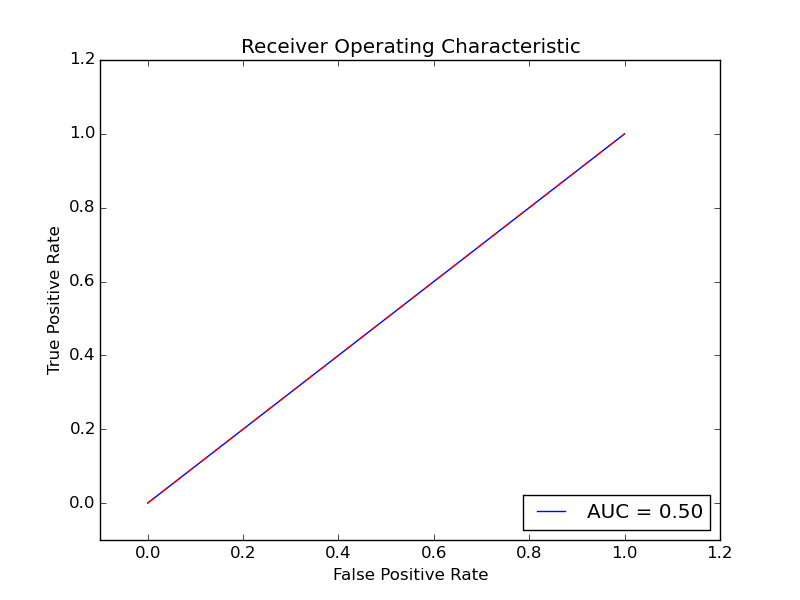
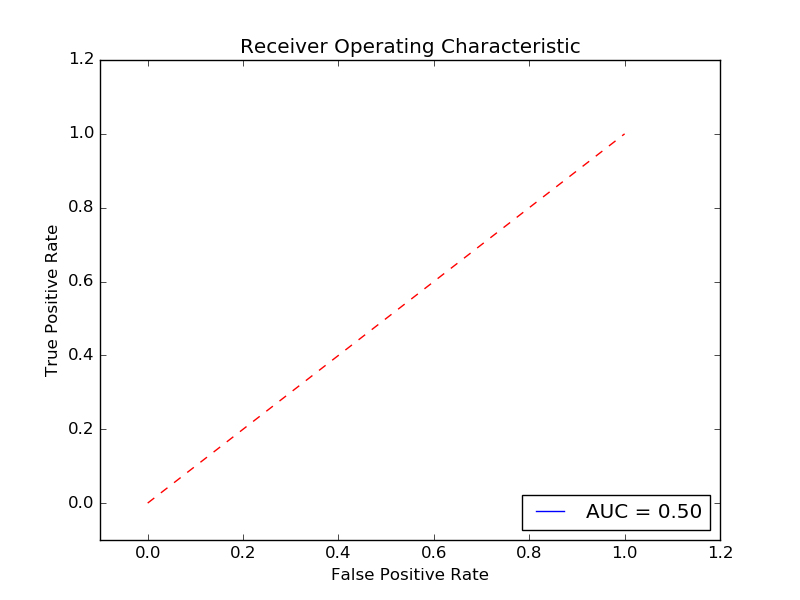
tried to fix graphs

diff --git a/svm/svm.py b/svm/svm.py
@@ -22,35 +22,49 @@ parsedData = data.map(parsePoint)
 
 
 def run_iterations(parsedData, iter, seed):
-    trainingData, testingData = parsedData.randomSplit([70, 30], seed)
-    print("For " + str(iter) + " iterations:")
-    # Build the model
-    model = SVMWithSGD.train(trainingData, iterations=100)
+    fp_rates = []
+    tp_rates = []
+    # thld_arr   = []
+    for i in range(0, 10):
+        trainingData, testingData = parsedData.randomSplit([70, 30], seed)
+        print("For " + str(iter) + " iterations:")
+        # Build the model
+        model = SVMWithSGD.train(trainingData, iterations=100)
 
-    # Evaluating the model on training data
-    labelsAndPreds = trainingData.map(lambda p: (p.label, model.predict(p.features)))
-    trainErr = labelsAndPreds.filter(lambda (v, p): v != p).count() / float(trainingData.count())
-    MSE = labelsAndPreds.map(lambda(v,p): (v-p)**2).reduce(lambda x, y: x + y)/labelsAndPreds.count()
-    print("Training Error = " + str(trainErr))
-    print("MSE = " + str(MSE))
+        # Evaluating the model on training data
+        labelsAndPreds = trainingData.map(lambda p: (p.label, model.predict(p.features)))
+        trainErr = labelsAndPreds.filter(lambda (v, p): v != p).count() / float(trainingData.count())
+        MSE = labelsAndPreds.map(lambda(v,p): (v-p)**2).reduce(lambda x, y: x + y)/labelsAndPreds.count()
+        print("Training Error = " + str(trainErr))
+        print("MSE = " + str(MSE))
 
-    labelsAndPreds = testingData.map(lambda p: (p.label, model.predict(p.features)))
-    testErr = labelsAndPreds.filter(lambda (v, p): v != p).count() / float(testingData.count())
-    MSE = labelsAndPreds.map(lambda(v,p): (v-p)**2).reduce(lambda x, y: x + y)/labelsAndPreds.count()
-    print("Testing Error = " + str(testErr))
-    print("MSE = " + str(MSE))
+        labelsAndPreds = testingData.map(lambda p: (p.label, model.predict(p.features)))
+        testErr = labelsAndPreds.filter(lambda (v, p): v != p).count() / float(testingData.count())
+        MSE = labelsAndPreds.map(lambda(v,p): (v-p)**2).reduce(lambda x, y: x + y)/labelsAndPreds.count()
+        print("Testing Error = " + str(testErr))
+        print("MSE = " + str(MSE))
 
 
 
-    info = labelsAndPreds.collect()
-    actual = [i[0] for i in info]
-    predictions = [i[1] for i in info]
+        info = labelsAndPreds.collect()
+        actual = [int(i[0]) for i in info]
+        predictions = [i[1] for i in info]
 
-    false_positive_rate, true_positive_rate, thresholds = roc_curve(actual, predictions)
-    roc_auc = auc(false_positive_rate, true_positive_rate)
+        false_positive_rate = labelsAndPreds.filter(lambda (v, p): v == 1 and p == 0).count() / float(labelsAndPreds.filter(lambda (v, p): v == 1).count())
+        true_positive_rate = labelsAndPreds.filter(lambda (v, p): v == 0 and p == 0).count() / float(labelsAndPreds.filter(lambda (v, p): v == 0).count())
+        fpr, tpr, thresholds = roc_curve(actual, predictions)
+        # roc_auc = auc(false_positive_rate, true_positive_rate)
+        print false_positive_rate
+        print true_positive_rate
+        fp_rates.append(false_positive_rate)
+        tp_rates.append(true_positive_rate)
 
+
+        print fp_rates
+        print tp_rates
+        roc_auc = auc(fpr, tpr)
     plt.title('Receiver Operating Characteristic')
-    plt.plot(false_positive_rate, true_positive_rate, 'b',
+    plt.plot(fp_rates, tp_rates, 'b',
     label='AUC = %0.2f'% roc_auc)
     plt.legend(loc='lower right')
     plt.plot([0,1],[0,1],'r--')
@@ -59,6 +73,7 @@ def run_iterations(parsedData, iter, seed):
     plt.ylabel('True Positive Rate')
     plt.xlabel('False Positive Rate')
     plt.show()
+    plt.savefig('fig.png')
 
 
 for iter in [10000]:
